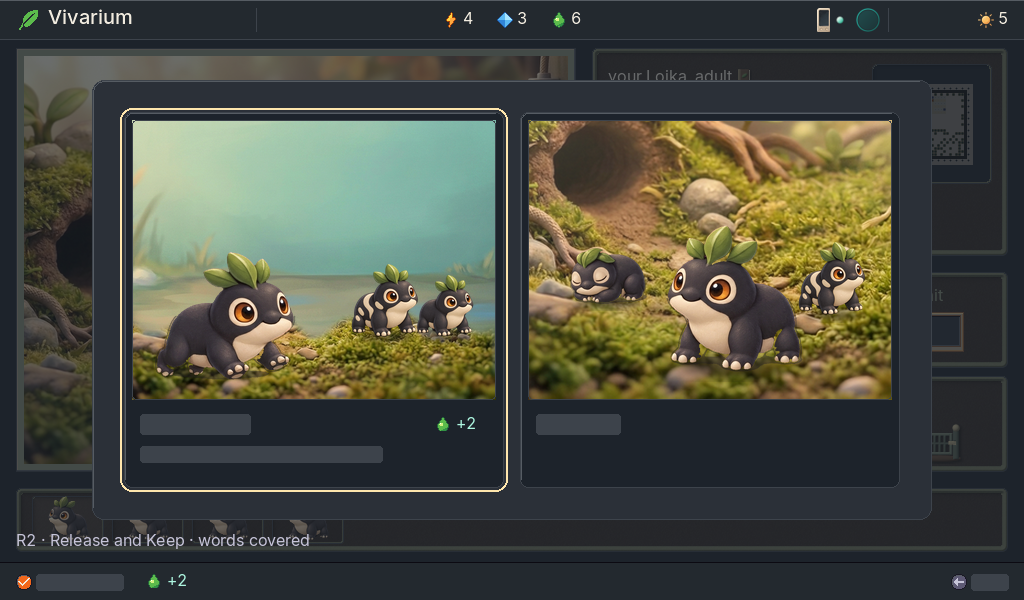
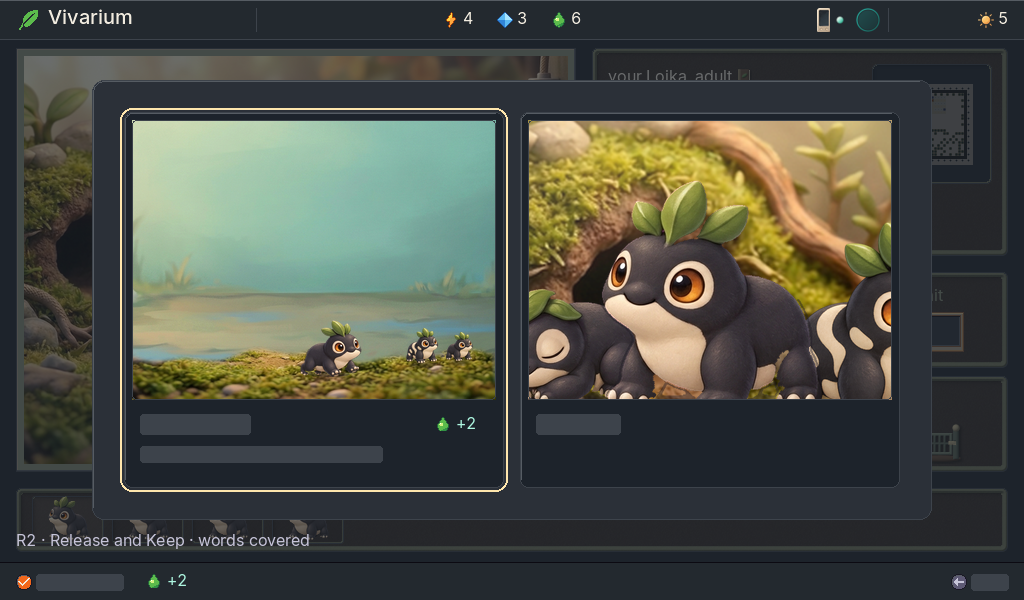
T-20261016-195: Release framed wide, Keep framed close (differ by framing)

Changed region(s): [[0.125, 0.18, 0.875, 0.69]]

diff --git a/results/T-20261016-195/make-r2.py b/results/T-20261016-195/make-r2.py
@@ -26,54 +26,53 @@ def daylight(img, strength=0.22):
 
 
 def scene_return_home(w, h):
-    """Return: Pip home at its pond, bounding along a mossy bank toward two of its own kind, under open sky, in daylight."""
+    """Release, framed wide and open: a landscape. Pip small in a broad wild place, bounding off toward its kind,
+    who wait further along the bank, smaller still with distance. Daylight."""
     sky = src('sitting-backdrop-pond-544x408.png')
-    k = (h + 40) / 408
-    sky = sky.resize((round(544 * k), h + 40), Image.LANCZOS).crop((0, 40, w, h + 40))  # the water band in view
-    a = np.asarray(sky.convert('RGB'), dtype=float)  # its own light: clear water, a bright sky, not a grey dusk
+    k0 = (h + 20) / 408
+    sky = sky.resize((round(544 * k0), h + 20), Image.LANCZOS)
+    sky = sky.crop(((sky.width - w) // 2, 10, (sky.width - w) // 2 + w, 10 + h))
+    a = np.asarray(sky.convert('RGB'), dtype=float)
     lum = a.mean(axis=2, keepdims=True)
-    a = lum + (a - lum) * 1.35
-    a = a * 1.08 + 6
+    a = (lum + (a - lum) * 1.35) * 1.08 + 6
     sky = Image.fromarray(np.clip(a, 0, 255).astype('uint8'), 'RGB').convert('RGBA')
-    bank = src('vivarium-near-day-544x408.png').crop((0, 262, 544, 408))  # the same moss and stones as home
-    bank = bank.resize((w, round(146 * w / 544)), Image.LANCZOS)
+    bank = src('vivarium-near-day-544x408.png').crop((0, 300, 544, 408))   # a thin band of bank: the land is far
+    bank = bank.resize((w, round(108 * w / 544 * 0.75)), Image.LANCZOS)
     m = Image.new('L', bank.size, 0)
-    md = ImageDraw.Draw(m)
-    pts = [(0, 30)] + [(x, 22 + 10 * np.sin(x / 23.0) + 6 * np.sin(x / 9.0)) for x in range(0, w + 1, 6)] + [(w, bank.height), (0, bank.height)]
-    md.polygon(pts, fill=255)
-    bank.putalpha(m.filter(ImageFilter.GaussianBlur(3)))
+    pts = [(0, 16)] + [(x, 10 + 5 * np.sin(x / 31.0) + 3 * np.sin(x / 11.0)) for x in range(0, w + 1, 6)] + [(w, bank.height), (0, bank.height)]
+    ImageDraw.Draw(m).polygon(pts, fill=255)
+    bank.putalpha(m.filter(ImageFilter.GaussianBlur(2)))
     sky.alpha_composite(bank, (0, h - bank.height))
     sky = daylight(sky)
-    # its own kind, already there: two wild Loikas further along the bank, smaller with distance, facing Pip
-    for name, sc, fx, flip in (('rich-marked-300x310.png', 0.25, 0.70, True), ('rich-plain-300x310.png', 0.21, 0.86, True)):
-        f = figure(name, sc, flip=flip)
-        x, y = int(w * fx) - f.width // 2, h - 62 - f.height
-        sh = contact(round(f.width * 0.8), 8, 0.45)
-        sky.alpha_composite(sh, (x + f.width // 2 - sh.width // 2, y + f.height - sh.height // 2 - 1))
+    gy = h - bank.height + 22                                                  # the bank's walking line
+    for name, sc, fx, dy in (('rich-marked-300x310.png', 0.12, 0.80, -4), ('rich-plain-300x310.png', 0.10, 0.90, -6)):
+        f = figure(name, sc, flip=True)
+        x, y = int(w * fx) - f.width // 2, gy + dy - f.height
+        sh = contact(round(f.width * 0.8), 4, 0.45)
+        sky.alpha_composite(sh, (x + f.width // 2 - sh.width // 2, y + f.height - sh.height // 2))
         sky.alpha_composite(f, (x, y))
-    pip = src('pip-air-304x312.png').transpose(Image.FLIP_LEFT_RIGHT)  # bounding toward them (body and shadow, feet row 305)
-    pip = pip.resize((round(304 * 0.5), round(312 * 0.5)), Image.LANCZOS)
-    px, py = int(w * 0.06), h - 22 - round(305 * 0.5)
-    sky.alpha_composite(pip, (px, py))
+    pip = src('pip-air-304x312.png').transpose(Image.FLIP_LEFT_RIGHT)          # bounding off to the right, away along the bank
+    k = 0.22
+    pip = pip.resize((round(304 * k), round(312 * k)), Image.LANCZOS)
+    sky.alpha_composite(pip, (int(w * 0.46), gy + 8 - round(305 * k)))
     return sky
 
 
 def scene_keep_home(w, h):
-    """Keep: Pip in its vivarium with its household, the same scale, the same daylight, awake: home with you."""
+    """Keep, framed close and nested: an interior. Pip near, at the burrow's mouth, among its household, who crowd the
+    frame's edges. Daylight."""
     bg = src('vivarium-near-day-544x408.png')
-    bg = bg.resize((round(544 * 1.1), round(408 * 1.1)), Image.LANCZOS).crop((10, 449 - h, 10 + w, 449))
+    bg = bg.resize((round(544 * 1.7), round(408 * 1.7)), Image.LANCZOS).crop((10, 150, 10 + w, 150 + h))   # in at the burrow
     bg = daylight(bg)
-    # its household: a resident dozing by the burrow, another pottering behind (the player's own, not kin from the wild)
-    for name, sc, fx, fy, flip in (('pip-curl-304x312.png', 0.30, 0.22, 0.66, False), ('rich-marked-300x310.png', 0.25, 0.84, 0.70, True)):
+    for name, sc, x, base, flip in (('pip-curl-304x312.png', 0.62, -40, h + 6, False), ('rich-marked-300x310.png', 0.70, w - 110, h + 30, True)):
         f = figure(name, sc, flip=flip)
-        x, y = int(w * fx) - f.width // 2, int(h * fy) - f.height
-        sh = contact(round(f.width * 0.8), 8, 0.5)
-        bg.alpha_composite(sh, (x + f.width // 2 - sh.width // 2, y + f.height - sh.height // 2 - 1))
-        bg.alpha_composite(f, (x, y))
-    pip = src('pip-anchor-304x312.png').resize((round(304 * 0.5), round(312 * 0.5)), Image.LANCZOS)  # the same scale
-    px, py = (w - pip.width) // 2 + 20, h - 30 - round(305 * 0.5)
-    sh = contact(round(pip.width * 0.7), 14, 0.55)
-    bg.alpha_composite(sh, (px + pip.width // 2 - sh.width // 2, py + round(305 * 0.5) - sh.height // 2 - 2))
+        sh = contact(round(f.width * 0.8), 14, 0.55)
+        bg.alpha_composite(sh, (x + f.width // 2 - sh.width // 2, base - sh.height // 2 - 4))
+        bg.alpha_composite(f, (x, base - f.height))
+    pip = src('pip-anchor-304x312.png').resize((round(304 * 0.82), round(312 * 0.82)), Image.LANCZOS)    # near
+    px, py = (w - pip.width) // 2 - 6, h + 18 - round(305 * 0.82)
+    sh = contact(round(pip.width * 0.7), 18, 0.6)
+    bg.alpha_composite(sh, (px + pip.width // 2 - sh.width // 2, py + round(305 * 0.82) - sh.height // 2 - 2))
     bg.alpha_composite(pip, (px, py))
     return bg
 

diff --git a/results/T-20261016-195/art-director.md b/results/T-20261016-195/art-director.md
@@ -75,3 +75,9 @@ With the words covered, Grow still reads as "into the chamber, at this price" ag
 - **No place badges.** Release shows ❀ +2 alone, and Keep's icon slot is blank.
 
 **Open:** Keep's second resident and the wild pair are cut from the same two accepted stands, so one face appears in both windows. Once T-190's layered stands are built, each window draws its own individuals.
+
+**Recomposed by framing** (the creative director, 89452124). With the household, both windows had the same composition, so covered they looked the same again. They now differ the way Grow's do, by framing, with the same stands and both in daylight:
+- **Release is wide and open, a landscape.** Most of the window is sky and water over a thin far bank. Pip is small, mid-bound, heading off along the bank toward its kind, who are smaller still with distance.
+- **Keep is close and nested, an interior.** The camera is in at the burrow's mouth. Pip is near and large, with its household crowding the frame's edges: one dozing at the left, one at the right.
+
+**Still owed:** Release's wide sky is the pond backdrop's soft haze. It is the part of the proof that most needs the painted master.
